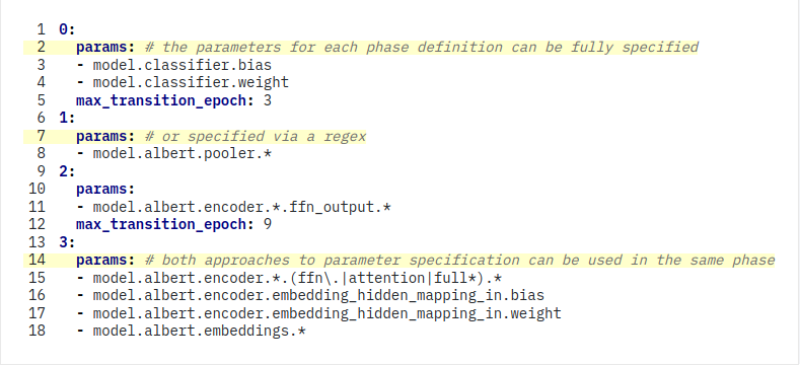
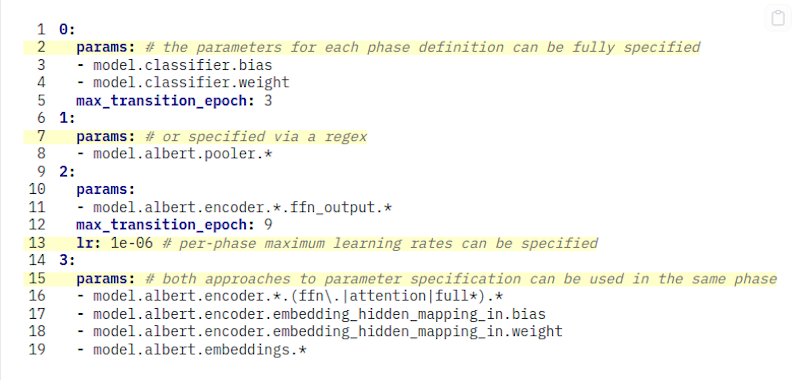
enabled setting base learning rates on a per-phase basis, updating current finetuning_scheduler_module release SHA

Changed region(s): [[0.0312, 0.0603, 0.9688, 0.9342], [0.9688, 0.0301, 1.0, 0.0603]]

diff --git a/lightning_examples/finetuning-scheduler/finetuning-scheduler.py b/lightning_examples/finetuning-scheduler/finetuning-scheduler.py
@@ -92,7 +92,7 @@
 #
 # <div class="alert alert-info">
 #
-# **Tip:** Use of regex expressions can be convenient for specifying more complex schedules:
+# **Tip:** Use of regex expressions can be convenient for specifying more complex schedules. Also, a per-phase base lr can be specified:
 #
 # ![emphasized_yaml](emphasized_yaml.png)
 #
